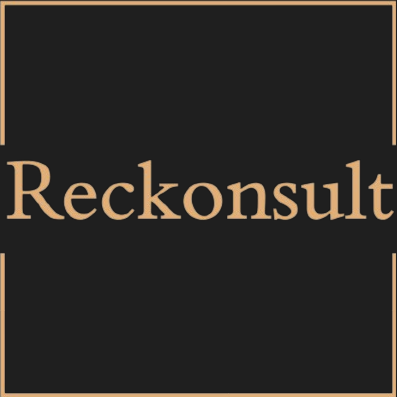
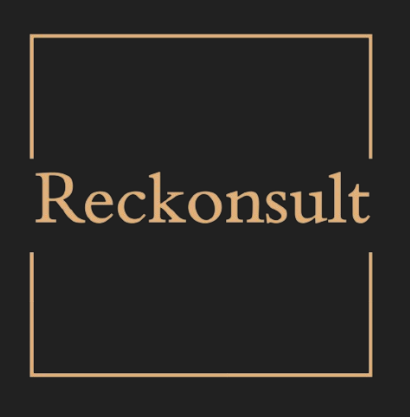
Image Change

diff --git a/index.html b/index.html
@@ -140,7 +140,7 @@
                 <div class="container">
   <div class="row align-items-center">
     <div class="col-md-6 d-flex align-items-center justify-content-center">
-      <img src="assets/img/profile.png" alt="Logo" style="max-width: 50%;">
+        <img src="assets/img/profile.png" alt="Logo" style="max-width: 50%; border: 10px solid #e6b17e; border-radius: 0; box-shadow: 0px 0px 15px 0px rgba(0,0,0,0.4);">
     </div>
     <div class="col-md-6 d-flex align-items-center">
       <div class="about-me pt-4 pt-md-0">
@@ -165,6 +165,7 @@
     </div>
   </div>
 </div>
+
 
             </div>
           </div>
